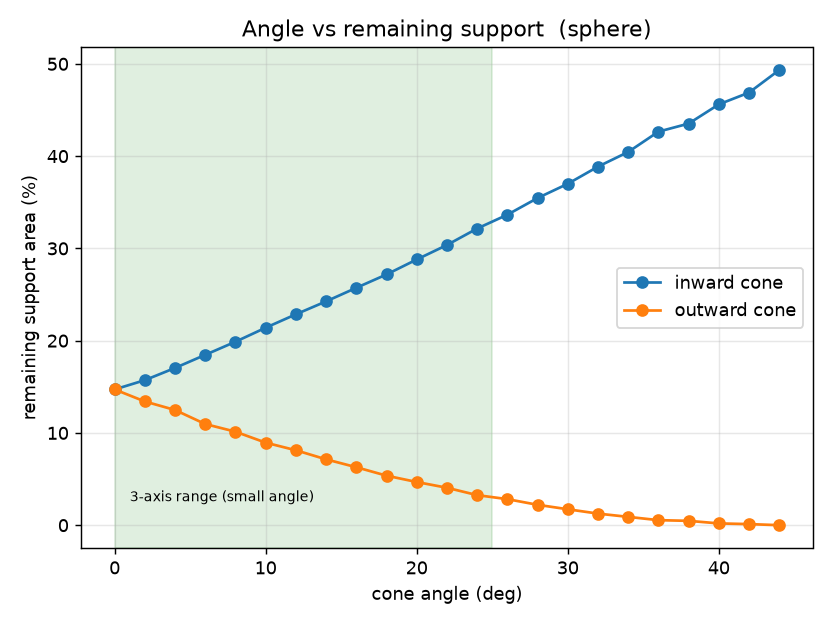
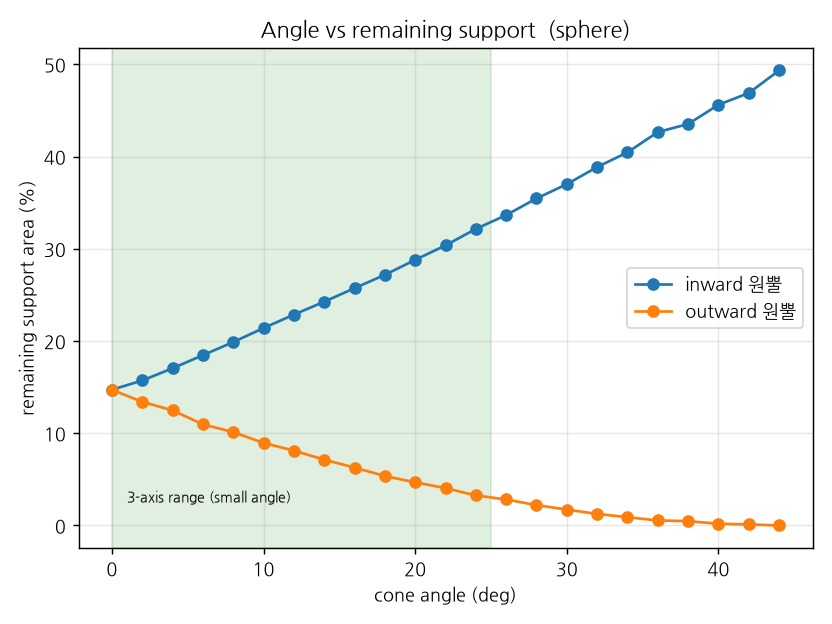
그림을 한글 라벨로 실제 생성 (폰트 번들 의존성 + 폰트 폴백)
무엇을:
- requirements 에 koreanize-matplotlib(나눔고딕 번들) 추가 → 어느 환경에서든
  pip install 만으로 한글 그림이 나온다. plotstyle 이 감지 전에 그 패키지를
  import 해서 번들 폰트를 등록시킨다(site-packages 는 시스템 폰트 경로가 아니라
  import 해야 잡힌다).
- 폰트 폴백 체인 [한글폰트, DejaVu Sans] — 나눔고딕에 없는 기호(⟨ ⟩ 등)가
  두부(□)로 나오던 것을 뒤 폰트가 대신 그리게 했다.
- 남은 그림 스크립트 3종(analyze_k, angle_sweep, compare_ceiling)도 L() 적용.
- 모든 결과 PNG 를 한글로 재생성.

그리고 compare_bands 그림 자체의 결함 3건 수정:
- 두 패널의 축 범위를 공유 — 값이 전부 같은 구 패널에서 축이 확대돼 평평한 선이
  구조가 있는 것처럼 보였다.
- 범례 누락(라벨만 달고 legend() 를 안 불렀음) 추가.
- 우측 축 라벨이 "J" 한 글자라 잘려 보이던 것을 "J (평가함수)" 로.

왜: 중간성과 보고 PPT 에 넣을 그림이 한글이어야 하는데, 개발 컨테이너에 한글
폰트가 없어 지금까지 영문으로만 뽑혔다. 폰트를 의존성으로 박아 재현 가능하게 했다.

테스트 12종 통과.

Claude-Session: https://claude.ai/code/session_01PhcSjij4HCWYMgSyMokAq5

diff --git a/compare_bands.py b/compare_bands.py
@@ -102,27 +102,37 @@ def main():
             print(f"  ✓ J가 N에 대해 비감소 (증분 "
                   f"{', '.join(f'{g:+.3f}' for g in gaps)})")
 
+    # 축 범위는 모델 간 공유한다 — 값이 전부 같은 패널(구)에서 축이 확대되면
+    # 평평한 선이 구조가 있는 것처럼 보인다.
+    all_peri = [r["peri"] for rows in results.values() for r in rows]
+    all_J = [r["J"] for rows in results.values() for r in rows]
+    ylim_p = (0, max(all_peri) * 1.30)
+    ylim_J = (min(0, min(all_J)) * 1.1, max(all_J) * 1.15)
+
     fig, axes = plt.subplots(1, len(results), figsize=(6.4 * len(results), 4.4),
                              squeeze=False)
     for ax, (name, rows) in zip(axes[0], results.items()):
         ns = [r["n"] for r in rows]
-        ax.plot(ns, [r["peri"] for r in rows], "o-", color="#2e7d32",
-                label=L("unsupported perimeter (%)", "페리미터 미지지 (%)"))
+        l1, = ax.plot(ns, [r["peri"] for r in rows], "o-", color="#2e7d32",
+                      label=L("unsupported perimeter (%)", "페리미터 미지지 (%)"))
         for r in rows:
             ax.annotate(f"⟨|θ|⟩={r['angle']:.0f}°", (r["n"], r["peri"]),
-                        textcoords="offset points", xytext=(0, 9),
-                        ha="center", fontsize=7)
+                        textcoords="offset points", xytext=(0, 10),
+                        ha="center", fontsize=8)
         ax2 = ax.twinx()
-        ax2.plot(ns, [r["J"] for r in rows], "s--", color="#4a7ebb", alpha=.75,
-                 label=L("J (objective)", "J (평가함수)"))
-        ax2.set_ylabel("J", color="#4a7ebb")
+        l2, = ax2.plot(ns, [r["J"] for r in rows], "s--", color="#4a7ebb", alpha=.75,
+                       label=L("J (objective, higher is better)",
+                               "J (평가함수, 클수록 좋음)"))
+        ax2.set_ylabel(L("J (objective)", "J (평가함수)"), color="#4a7ebb")
+        ax2.set_ylim(*ylim_J)
         ax.set_xlabel(L("number of bands N", "밴드 수 N"))
         ax.set_ylabel(L("unsupported perimeter (%)", "페리미터 미지지 (%)"),
                       color="#2e7d32")
         ax.set_xticks(ns)
+        ax.set_ylim(*ylim_p)
         ax.set_title(L("sphere (no waist)", "구 (허리 없음)") if "구" in name
                      else L("lamp (with waist)", "램프 (허리 있음)"), fontsize=10)
-        ax.margins(y=.22)
+        ax.legend(handles=[l1, l2], loc="lower left", fontsize=8, framealpha=.9)
     fig.suptitle(L("complexity (bands) vs performance — measured on the toolpath, "
                    "not the ideal estimate",
                    "복잡도(밴드 수) vs 성능 — 이상적 추정이 아니라 툴패스 실측"),

diff --git a/analyze_k.py b/analyze_k.py
@@ -22,6 +22,7 @@ import trimesh
 import matplotlib
 matplotlib.use("Agg")
 import matplotlib.pyplot as plt
+from conical.plotstyle import L
 
 from conical.varangle import select_uniform, select_banded
 # 판정 기준 통일(2026-07 리뷰): metrics → analytic (해석식)
@@ -90,12 +91,12 @@ def analyze(name, mesh, ax=None):
     if ax is not None:
         ks_arr = [r[0] for r in rows]
         gain = [r[3] for r in rows]
-        ax.plot(ks_arr, gain, marker="o", ms=3, label="banding gain")
+        ax.plot(ks_arr, gain, marker="o", ms=3, label=L("banding gain", "밴딩 이득"))
         ax.axvline(kscale, color="tab:red", ls="--", lw=1,
-                   label=f"natural k≈{kscale:.2f}")
+                   label=L(f"natural k≈{kscale:.2f}", f"자연 스케일 k≈{kscale:.2f}"))
         ax.set_title(name)
-        ax.set_xlabel("k (angle cost weight)")
-        ax.set_ylabel("banding gain (support %p)")
+        ax.set_xlabel(L("k (angle cost weight)", "k (각도 비용 가중치)"))
+        ax.set_ylabel(L("banding gain (support %p)", "밴딩 이득 (서포트 %p)"))
         ax.grid(alpha=0.3)
         ax.legend(fontsize=8)
     return rows, kscale
@@ -122,7 +123,8 @@ if __name__ == "__main__":
     fig, axes = plt.subplots(1, len(models), figsize=(6 * len(models), 4), squeeze=False)
     for ax, (name, mesh) in zip(axes[0], models.items()):
         analyze(name, mesh, ax)
-    fig.suptitle("Banding advantage vs angle-cost k  (gain>0 only in a middle window)")
+    fig.suptitle(L("Banding advantage vs angle-cost k  (gain>0 only in a middle window)",
+                   "각도 비용 k에 따른 밴딩 이득  (이득>0 구간이 중간에만 있다)"))
     fig.tight_layout()
     fig.savefig("analyze_k.png", dpi=130)
     print("\nsaved: analyze_k.png")

diff --git a/conical/plotstyle.py b/conical/plotstyle.py
@@ -33,9 +33,24 @@ CANDIDATES = [
 ]
 
 
+def _register_bundled():
+    """koreanize_matplotlib 가 설치돼 있으면 import 해서 번들 폰트를 등록시킨다.
+
+    이 패키지는 나눔고딕 TTF 를 site-packages 안에 넣고 import 시점에
+    matplotlib 폰트 목록에 등록한다. site-packages 는 시스템 폰트 경로가 아니라
+    import 를 해야만 잡힌다 — 그래서 감지 전에 한 번 불러준다.
+    시스템에 한글 폰트가 이미 있으면 굳이 필요 없다(없어도 조용히 넘어간다).
+    """
+    try:
+        import koreanize_matplotlib          # noqa: F401
+    except Exception:
+        pass
+
+
 def find_korean_font():
     """설치된 한글 폰트 이름 (없으면 None). 환경변수가 있으면 그것을 우선."""
     forced = os.environ.get("CONICAL_PLOT_FONT")
+    _register_bundled()
     available = {f.name for f in font_manager.fontManager.ttflist}
     if forced:
         return forced if forced in available else None
@@ -50,7 +65,9 @@ def use_korean():
     name = find_korean_font()
     if not name:
         return False
-    matplotlib.rcParams["font.family"] = name
+    # 폰트 '폴백 체인': 한글 폰트에 없는 글리프(⟨ ⟩ 같은 기호)는 뒤 폰트가 그린다.
+    # 나눔고딕엔 각괄호가 없어 두부(□)로 나오던 것을 이렇게 막는다. (matplotlib ≥3.6)
+    matplotlib.rcParams["font.family"] = [name, "DejaVu Sans"]
     matplotlib.rcParams["axes.unicode_minus"] = False   # 한글 폰트는 −(U+2212)가 없다
     return True
 

diff --git a/compare_ceiling.py b/compare_ceiling.py
@@ -22,6 +22,7 @@ import trimesh
 import matplotlib
 matplotlib.use("Agg")
 import matplotlib.pyplot as plt
+from conical.plotstyle import L
 
 from conical import analytic
 from conical.meshio import center_on_axis
@@ -104,8 +105,9 @@ if __name__ == "__main__":
         ax.bar(xpos + (i - 1.5) * w, [r[key] for r in rows], w, label=label, color=color)
     ax.set_xticks(xpos)
     ax.set_xticklabels(names, fontsize=9)
-    ax.set_ylabel("remaining support area (%)")
-    ax.set_title("Support vs strategy: realizable band plan vs idealized ceiling")
+    ax.set_ylabel(L("remaining support area (%)", "남은 서포트 면적 (%)"))
+    ax.set_title(L("Support vs strategy: realizable band plan vs idealized ceiling",
+                   "전략별 서포트: 실현 가능한 밴드 계획 vs 이상적 천장"))
     ax.legend(fontsize=8)
     ax.grid(axis="y", alpha=0.3)
     fig.tight_layout()

diff --git a/angle_sweep.py b/angle_sweep.py
@@ -13,6 +13,7 @@ import trimesh
 import matplotlib
 matplotlib.use("Agg")
 import matplotlib.pyplot as plt
+from conical.plotstyle import L
 
 # 판정 기준 통일(2026-07 리뷰): sweep(변환공간 근사) → analytic(해석식).
 from conical.analytic import support_fraction, sweep_table
@@ -25,7 +26,7 @@ if __name__ == "__main__":
     angles = np.arange(0, 46, 2)   # 0° ~ 44°
     for cone_type in ["inward", "outward"]:
         frac = sweep_table(mesh, angles, cone_type)
-        plt.plot(angles, frac, marker="o", label=f"{cone_type} cone")
+        plt.plot(angles, frac, marker="o", label=L(f"{cone_type} cone", f"{cone_type} 원뿔"))
         # 표로도 출력
         print(f"\n[{cone_type}]  angle -> remaining support (%)")
         for a, f in zip(angles, frac):

diff --git a/README.md b/README.md
@@ -75,9 +75,10 @@ CONICAL_PLOT_FONT="Malgun Gothic" python3 compare_bands.py   # 폰트 직접 지
                                    # (matplotlib 이름이라 "맑은 고딕"이 아니라 영문명)
 ```
 
-윈도우는 `Malgun Gothic`, macOS 는 `AppleGothic` 이 기본 설치돼 있어 별도 작업이
-필요 없다. 리눅스에서는 `sudo apt install fonts-nanum` 후
-`rm -rf ~/.cache/matplotlib` 로 폰트 캐시를 지우면 잡힌다.
+`requirements.txt` 에 `koreanize-matplotlib`(나눔고딕 번들)이 들어 있어서
+`pip install -r requirements.txt` 만 하면 어느 환경에서든 한글로 나온다.
+윈도우(`Malgun Gothic`)·macOS(`AppleGothic`)는 시스템 폰트가 먼저 잡힌다.
+한글 폰트에 없는 기호(⟨ ⟩ 등)는 폰트 폴백으로 DejaVu Sans 가 대신 그린다.
 
 `find_max_safe_angle.py` 는 config 의 전역 상수 `MAX_ANGLE_DEG` 를 모델별
 계산값으로 대체할 수 있게 한다 (HotendProfile 은 실측 전 추정값 — 캘리퍼스 필수).
